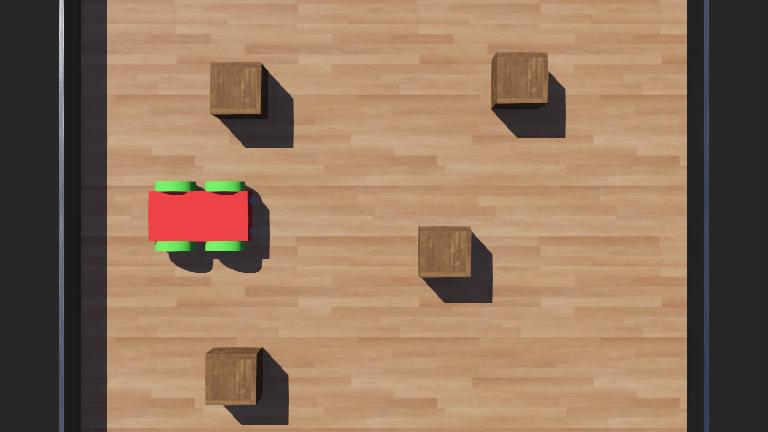
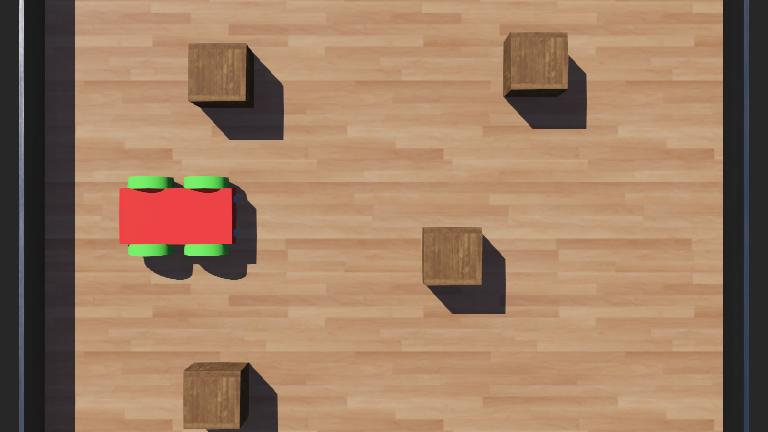
added rule based col avoidance controller

diff --git a/src/simulation/controllers/four_wheeled_collision_avoidance/four_wheeled_collision_avoidance.py b/src/simulation/controllers/four_wheeled_collision_avoidance/four_wheeled_collision_avoidance.py
@@ -1,0 +1,32 @@
+from controller import Robot
+
+TIME_STEP = 64
+robot = Robot()
+ds = []
+dsNames = ["ds_right", "ds_left"]
+for i in range(2):
+    ds.append(robot.getDevice(dsNames[i]))
+    ds[i].enable(TIME_STEP)
+wheels = []
+wheelsNames = ["wheel1", "wheel2", "wheel3", "wheel4"]
+for i in range(4):
+    wheels.append(robot.getDevice(wheelsNames[i]))
+    wheels[i].setPosition(float("inf"))
+    wheels[i].setVelocity(0.0)
+avoidObstacleCounter = 0
+while robot.step(TIME_STEP) != -1:
+    leftSpeed = 3.0
+    rightSpeed = 3.0
+    if avoidObstacleCounter > 0:
+        print(avoidObstacleCounter)
+        avoidObstacleCounter -= 1
+        leftSpeed = 3.0
+        rightSpeed = -3.0
+    else:  # read sensors
+        for i in range(2):
+            if ds[i].getValue() < 950.0:
+                avoidObstacleCounter = 30
+    wheels[0].setVelocity(leftSpeed)
+    wheels[1].setVelocity(rightSpeed)
+    wheels[2].setVelocity(leftSpeed)
+    wheels[3].setVelocity(rightSpeed)
